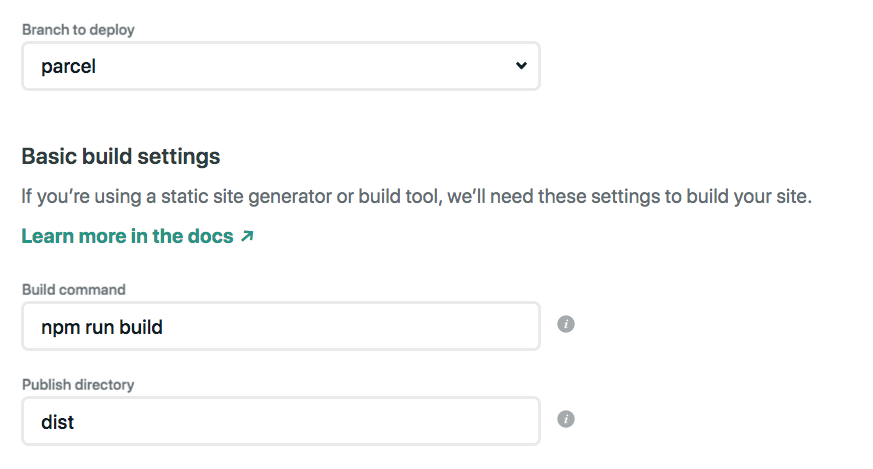
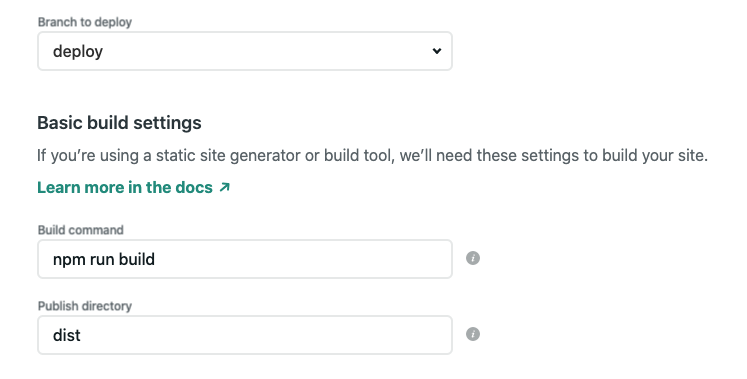
ch15 updates

diff --git a/manuscript/ch15.md b/manuscript/ch15.md
@@ -10,10 +10,8 @@ If you're only targeting modern browsers and serving code over HTTP/2, you may s
 
 In this book we use [Parcel](https://parceljs.org/) - a zero-configuration bundler.
 
-First, install parcel:
+First, install parcel as a dev dependency:
 `npm i parcel -D`
-
-`-D` adds it to `devDependencies` during installation.
 
 Add a script to build your production code:
 ```json
@@ -24,7 +22,7 @@ Add a script to build your production code:
 Time to build your project:
 `npm run build`
 
-The parcel will generate a `dist` directory with the optimized production code.
+Parcel will generate a `dist` directory with the optimized production code.
 
 Verify your production distribution locally:
 `http-server dist`
@@ -39,7 +37,7 @@ We're using [Netlify](https://www.netlify.com/) to host this project. In the fol
 ![Figure: Netlify deployment settings](images/netlify.png)
 
 Once you connect your Github repo to Netlify configure:
-* branch to deploy: we're using a branch called [parcel](https://github.com/kwasniew/hyperbook-tutorial/tree/parcel). On [master](https://github.com/kwasniew/hyperbook-tutorial/tree/master), there is a lightweight setup without a bundler.
+* branch to deploy: we're using a branch called [deploy](https://github.com/kwasniew/hyperbook-tutorial/tree/build). On [main](https://github.com/kwasniew/hyperbook-tutorial/tree/main), there is a lightweight setup without a bundler.
 * build command: `npm run build` from the previous step
 * publish directory: `dist` a default Parcel directory
 
@@ -52,10 +50,10 @@ You can find the latest deployed version here: https://hyperposts.netlify.app/
 One of the most underrated performance optimizations is using lighter frameworks and libraries.
 
 Use bundlephobia to check the size of your dependencies (minified+gzipped):
-* https://bundlephobia.com/result?p=hyperapp@2.0.4 (1.9kB)
+* https://bundlephobia.com/result?p=hyperapp@2.0.8 (1.7kB)
 * https://bundlephobia.com/result?p=hyperapp-fx@2.0.0-beta.1 (1.6kB)
 * https://bundlephobia.com/result?p=@hyperapp/events@0.0.4 (0.8kB)
-* https://bundlephobia.com/result?p=htm@3.0.4 (0.7kB)
+* https://bundlephobia.com/result?p=hyperlit@0.3.5 (0.7kB)
 * https://bundlephobia.com/result?p=page@1.11.6 (3.9kB)
 
 To make this comparison relevant here are some of the popular libraries:
